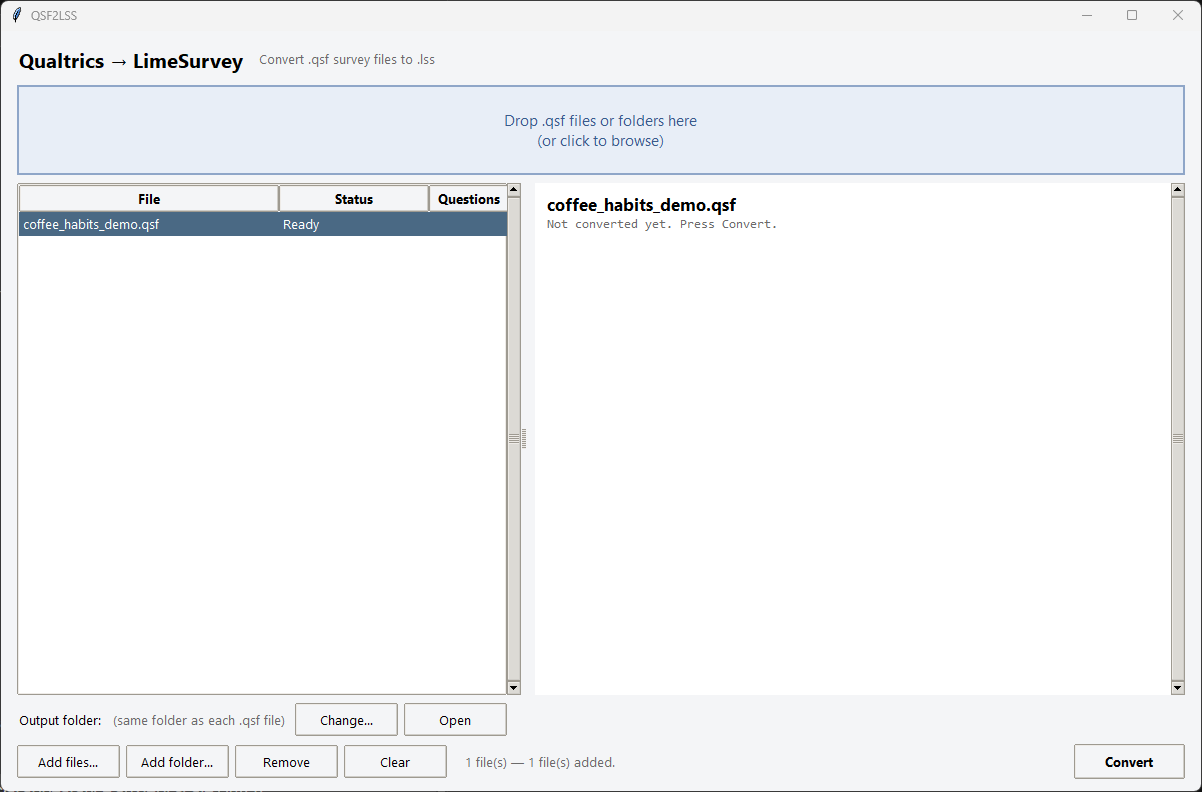
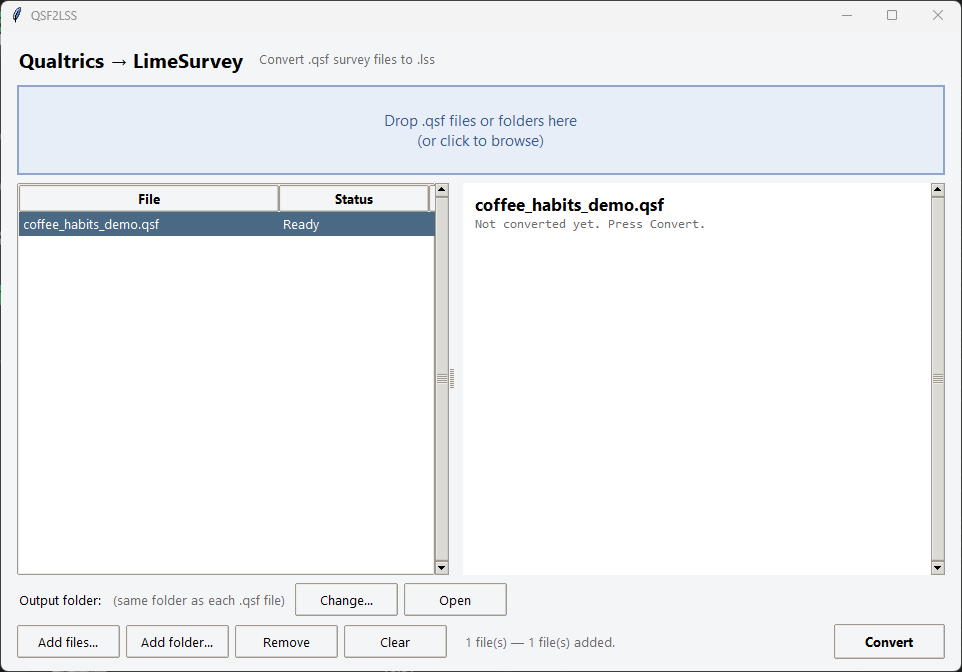
Website: sharper screenshots shown at native size
Retake screenshots from a smaller window (962 px instead of 1202 px) so the
text is larger relative to the image, and widen the guide section so they
are no longer scaled down.

diff --git a/docs/index.html b/docs/index.html
@@ -338,6 +338,8 @@ section{padding:64px 0}
 ol.quick{counter-reset:q;list-style:none;padding:0;margin:0 0 8px}
 ol.quick li{counter-increment:q;position:relative;padding:10px 0 10px 48px;border-bottom:1px solid var(--rule)}
 ol.quick li::before{content:counter(q);position:absolute;left:0;top:9px;width:30px;height:30px;border-radius:50%;border:1.5px solid var(--ink);display:grid;place-items:center;font-family:var(--serif);font-weight:600;font-size:.95rem}
+#guide .wrap>h2,#guide ol.quick,#guide .intro,#guide .note{max-width:760px}
+.shot{max-width:962px}
 details.more{border:1.5px solid var(--ink);border-radius:12px;background:var(--card);padding:0 22px;margin:22px 0 0}
 details.more>summary{font-family:var(--serif);font-size:1.15rem;font-weight:600;padding:16px 0}
 details.more[open]>summary{border-bottom:1px solid var(--rule);margin-bottom:12px}
@@ -383,7 +385,7 @@ details.more .num{font-size:3.4rem;top:70px}
   <p class="aibox reveal d4"><b>Made with AI:</b> this website and the converter's code were created by AI (Claude, by Anthropic) based on an idea by Konrad Schweizer. The screenshots come from the real program; the demo survey is made up. Spotted a mistake? <a href="https://github.com/KonradSchweizer/Qualtrics-to-LimeSurvey-migration/issues">Tell us on GitHub</a>.</p>
 </div></header>
 
-<section id="guide"><div class="wrap narrow">
+<section id="guide"><div class="wrap">
   <h2>How to use it</h2>
   <ol class="quick">
     <li><b>Export</b> your survey in Qualtrics: <em>Tools / … menu → Export survey → QSF</em>.</li>
@@ -391,7 +393,7 @@ details.more .num{font-size:3.4rem;top:70px}
     <li><b>Convert.</b> Press <em>Convert</em> and read the checks. Amber lines show what to look at.</li>
     <li><b>Import</b> the <code>.lss</code> in LimeSurvey: <em>Create survey → Import</em>. Then test the survey before using it.</li>
   </ol>
-  <figure><img class="shot" src="img/04-results.png" alt="QSF2LSS window after converting a demo survey: status, input and output summary" width="1202" height="792" loading="lazy"><figcaption>The program after converting the demo survey. Click to enlarge.</figcaption></figure>
+  <figure><img class="shot" src="img/04-results.png" alt="QSF2LSS window after converting a demo survey: status, input and output summary" width="962" height="672" loading="lazy"><figcaption>The program after converting the demo survey. Click to enlarge.</figcaption></figure>
 
   <details class="more"><summary>Full walkthrough with screenshots</summary>
   <p class="intro">The walkthrough converts a small, made-up demo survey. You can <a href="demo/coffee_habits_demo.qsf" download>download the demo .qsf</a> to try it, and compare with <a href="demo/coffee_habits_demo.lss" download>the converted .lss</a>.</p>
@@ -426,7 +428,7 @@ details.more .num{font-size:3.4rem;top:70px}
     <div class="body">
       <h3>Start QSF2LSS</h3>
       <p>Download the zip for your computer from the buttons at the top, unzip it anywhere and start <code>QSF2LSS-GUI</code>. It opens one window. There is a drop zone at the top, a file list on the left, a details pane on the right and the controls along the bottom.</p>
-      <figure><img class="shot" src="img/01-start.png" alt="QSF2LSS window right after starting: empty file list and details pane" width="1202" height="792" loading="lazy"><figcaption>Fig. 1. The empty window when the program starts.</figcaption></figure>
+      <figure><img class="shot" src="img/01-start.png" alt="QSF2LSS window right after starting: empty file list and details pane" width="962" height="672" loading="lazy"><figcaption>Fig. 1. The empty window when the program starts.</figcaption></figure>
       <ul class="callouts">
         <li><b>Windows</b>Double-click <code>QSF2LSS-GUI.exe</code>. If SmartScreen warns you, click <em>More info → Run anyway</em> (the exe isn't code-signed).</li>
         <li><b>macOS</b>The first time only, <em>right-click</em> <code>QSF2LSS-GUI.app</code> → <em>Open</em> → <em>Open</em>. This clears Apple's “unidentified developer” warning.</li>
@@ -439,7 +441,7 @@ details.more .num{font-size:3.4rem;top:70px}
     <div class="body">
       <h3>Drop in your .qsf files</h3>
       <p>Drag one or more <code>.qsf</code> files, or a whole folder, onto the window. The drop zone lights up while you drag. If you drop a folder, it is searched recursively and every <code>.qsf</code> inside is added. Anything that isn't a <code>.qsf</code> is ignored. If you'd rather not drag, click the drop zone or use <strong>Add files…</strong> / <strong>Add folder…</strong>.</p>
-      <figure><img class="shot" src="img/02-drag-over.png" alt="The drop zone highlighted in blue while a file is dragged over the window" width="1202" height="792" loading="lazy"><figcaption>Fig. 2. The drop zone highlights while a file is dragged over it.</figcaption></figure>
+      <figure><img class="shot" src="img/02-drag-over.png" alt="The drop zone highlighted in blue while a file is dragged over the window" width="962" height="672" loading="lazy"><figcaption>Fig. 2. The drop zone highlights while a file is dragged over it.</figcaption></figure>
     </div>
   </div>
 
@@ -448,7 +450,7 @@ details.more .num{font-size:3.4rem;top:70px}
     <div class="body">
       <h3>Check the queue and choose where the output goes</h3>
       <p>Each file appears in the list with the status <strong>Ready</strong>. By default each <code>.lss</code> is written <em>next to its .qsf</em>. Click <strong>Change…</strong> to send everything to one folder instead. Select a file and press <kbd>Delete</kbd> (or <strong>Remove</strong>) to take it off the list, or press <strong>Clear</strong> to start over.</p>
-      <figure><img class="shot" src="img/03-added.png" alt="The demo file listed with status Ready" width="1202" height="792" loading="lazy"><figcaption>Fig. 3. The demo survey is queued and ready to convert.</figcaption></figure>
+      <figure><img class="shot" src="img/03-added.png" alt="The demo file listed with status Ready" width="962" height="672" loading="lazy"><figcaption>Fig. 3. The demo survey is queued and ready to convert.</figcaption></figure>
     </div>
   </div>
 
@@ -457,7 +459,7 @@ details.more .num{font-size:3.4rem;top:70px}
     <div class="body">
       <h3>Press Convert and read the result</h3>
       <p>Press <strong>Convert</strong>. Every file is <em>inspected</em>, <em>converted</em> and <em>verified</em> in the background, so the window stays responsive even for large batches. Each row then gets a coloured verdict: green <strong>OK</strong>, amber <strong>OK with warnings</strong> or red <strong>failed</strong>. Click a row to see its details.</p>
-      <figure><img class="shot" src="img/04-results.png" alt="Results after conversion: status OK with 5 warnings, input and output summaries" width="1202" height="792" loading="lazy"><figcaption>Fig. 4. The details pane shows the input analysis and the output summary.</figcaption></figure>
+      <figure><img class="shot" src="img/04-results.png" alt="Results after conversion: status OK with 5 warnings, input and output summaries" width="962" height="672" loading="lazy"><figcaption>Fig. 4. The details pane shows the input analysis and the output summary.</figcaption></figure>
       <p>The details pane has three parts:</p>
       <ul class="callouts">
         <li><b>Input (Qualtrics)</b>Survey name, language, 13 questions in 5 blocks, a breakdown by question type, and the detected features: display logic, piped text, JavaScript, embedded data. It also shows a <a href="#risk">migration risk score</a>.</li>
@@ -472,7 +474,7 @@ details.more .num{font-size:3.4rem;top:70px}
     <div class="body">
       <h3>Understand the verification checks</h3>
       <p>The demo ends as <strong>“OK with 5 warning(s)”</strong>, and every warning is expected for this survey. They show the kind of thing the report tells you:</p>
-      <figure><img class="shot" src="img/05-results-bottom.png" alt="Verification section with green checks, amber warnings and one info line" width="1202" height="792" loading="lazy"><figcaption>Fig. 5. Verification: ✓ passed, ! warning, i information.</figcaption></figure>
+      <figure><img class="shot" src="img/05-results-bottom.png" alt="Verification section with green checks, amber warnings and one info line" width="962" height="672" loading="lazy"><figcaption>Fig. 5. Verification: ✓ passed, ! warning, i information.</figcaption></figure>
       <table class="tbl">
         <tr><th>Result</th><th>What it says</th><th>Why</th></tr>
         <tr><td><span class="pill warn">!</span></td><td>13 questions in QSF, 12 in LSS</td><td>The deleted question in the <em>Trash</em> block is skipped on purpose.</td></tr>
